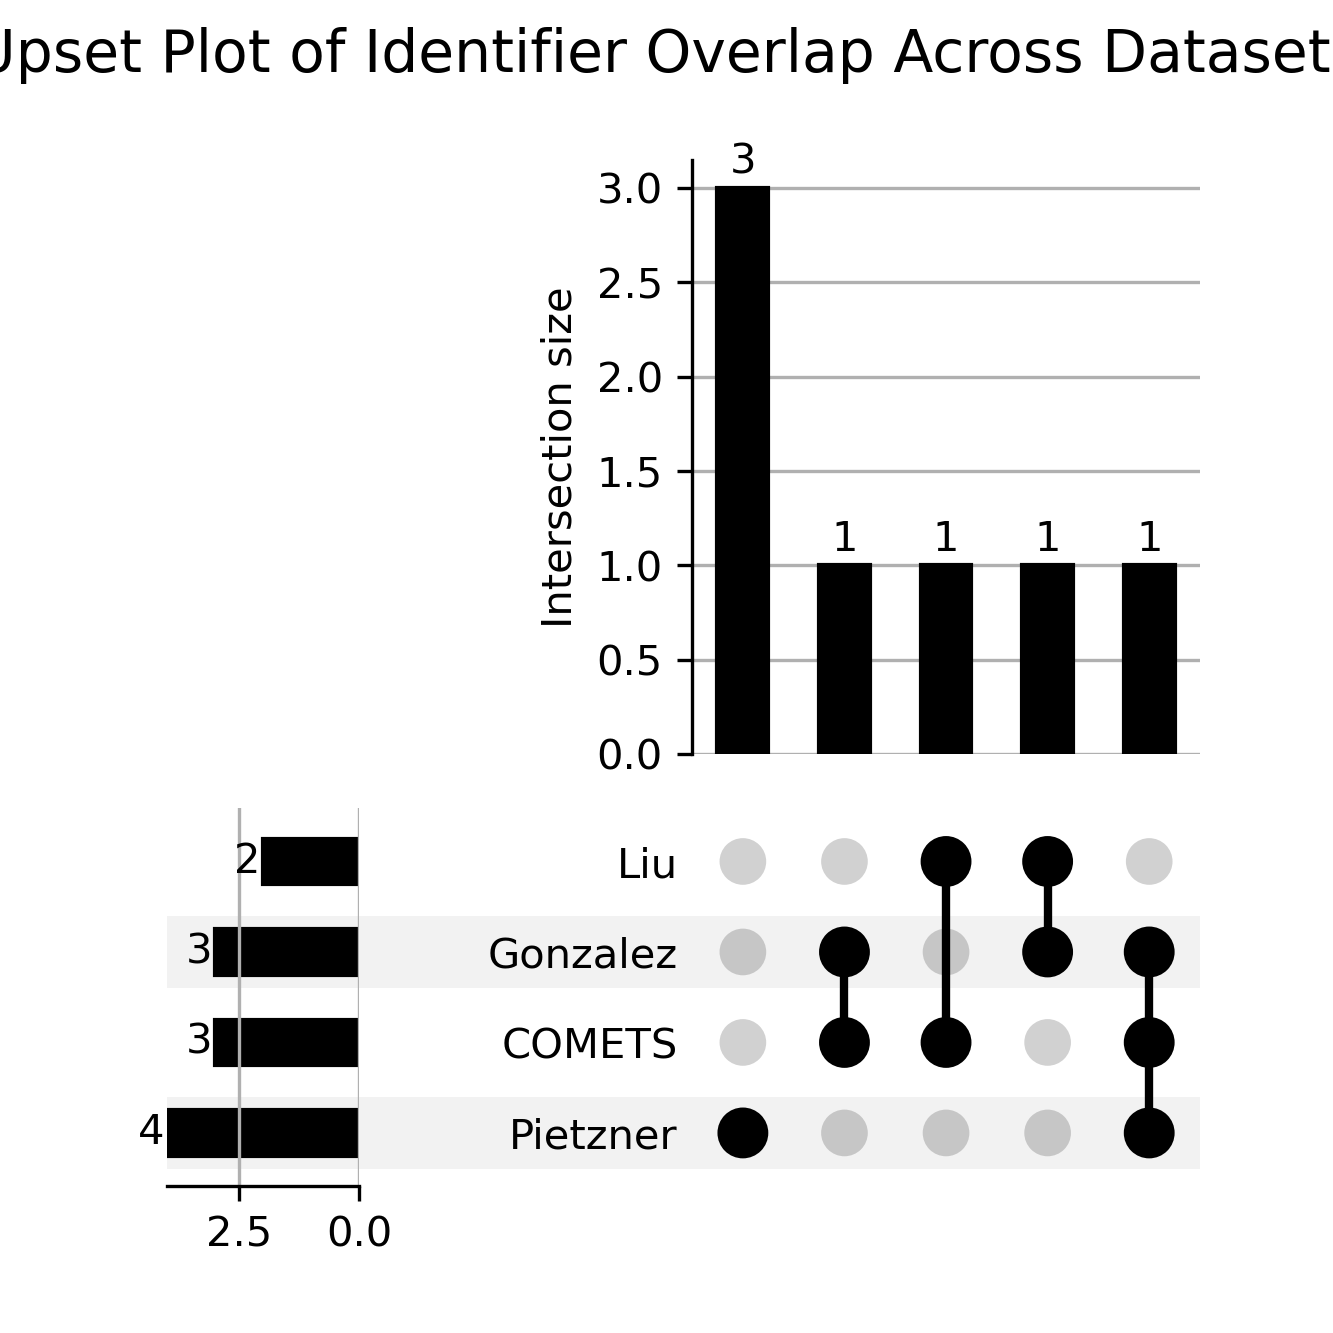
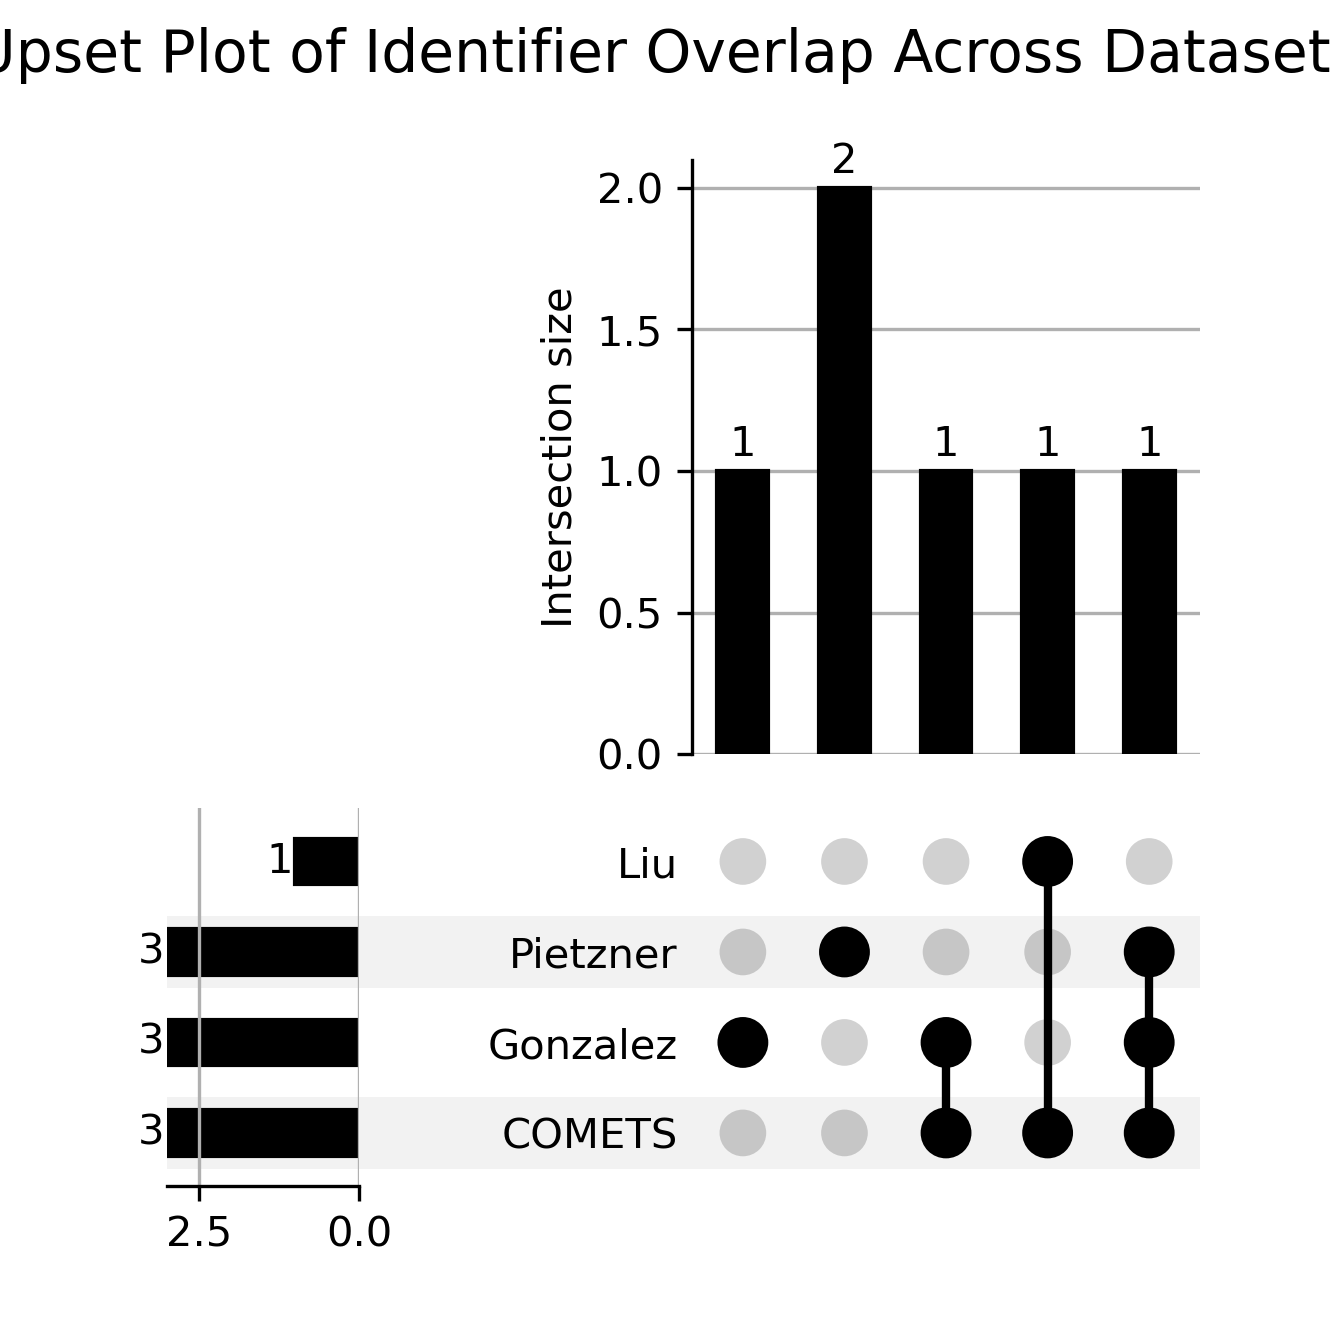
chore : upset_plot class reframe

diff --git a/figures.py b/figures.py
@@ -2,10 +2,6 @@ import pandas as pd
 import matplotlib.pyplot as plt
 from upsetplot import UpSet, from_memberships
 
-import pandas as pd
-import matplotlib.pyplot as plt
-from upsetplot import UpSet, from_memberships
-
 class UpSetPlotter:
     def __init__(self, data, names=None):
         """
@@ -37,19 +33,22 @@ class UpSetPlotter:
         self.presence_matrix = presence_matrix
         return presence_matrix
 
-    def build_memberships(self, exclude_all=True):
+    def build_memberships(self):
         if self.presence_matrix is None:
             self.build_presence_matrix()
         memberships = []
         for index, row in self.presence_matrix.iterrows():
             present = row[row == 1].index.tolist()
-            if present and (not exclude_all or set(present) != self.all_datasets):
+            if present:
                 memberships.append(present)
         self.memberships = memberships
         return memberships
-
-    def plot_upset(self, figsize=(10, 6), title="Upset Plot of Identifier Overlap Across Datasets", exclude_all=True, save_path=None):
-        memberships = self.build_memberships(exclude_all=exclude_all)
+    
+    def plot_upset(self, figsize=(10, 6), title="Upset Plot of Identifier Overlap Across Datasets", save_path=None):
+        """
+        Plot an UpSet plot including all intersections (including the intersection of all datasets).
+        """
+        memberships = self.build_memberships()  # Do not exclude any intersections
         upset_data = from_memberships(memberships)
         plt.figure(figsize=figsize)
         upset = UpSet(
@@ -76,12 +75,15 @@ class UpSetPlotter:
 if __name__ == "__main__":
     # Example with dict of lists
     data = {
-        "COMETS": ["A", "B", "C"],
+        "COMETS": ["A", "B", "C", "A"],
         "Gonzalez": ["B", "C", "D"],
-        "Liu": ["A", "D"],
-        "Pietzner": ["C", "E", "F", "G"]
+        "Liu": ["A"],
+        "Pietzner": ["C", "E", "F"]
     }
     plotter = UpSetPlotter(data)
+    print(plotter.build_presence_matrix())
+    print(plotter.build_memberships())
+    #print(plotter.summary())
     plotter.plot_upset(save_path="upset_plot.png")
 
 
